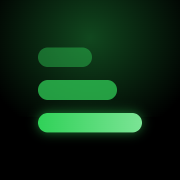
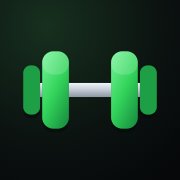
Une icône qui tient à 60 px
Les trois barres horizontales se lisaient comme un menu hamburger à
la taille où l'icône est réellement vue — 60 px sur l'écran
d'accueil, 38 px dans les réglages. À la place, un haltère chargé, à
plat et symétrique : deux plaques par côté, pas quatre, et une ombre
portée qui les décolle de la barre. Vérifié aux trois tailles avant
de trancher.

`icons/icon.svg` devient la source ; les PNG en sont des rendus. Le
512 maskable existe maintenant en double avec le motif à 76 %, parce
qu'Android rogne dans un cercle inscrit et mangeait les colliers
extérieurs.

Changed region(s): [[0.1111, 0.1111, 0.8889, 0.75], [0.0, 0.5, 0.0556, 0.6111], [0.0, 0.0, 0.0278, 0.0833]]

diff --git a/index.html b/index.html
@@ -9,7 +9,7 @@
 <meta name="apple-mobile-web-app-capable" content="yes">
 <meta name="apple-mobile-web-app-title" content="Reps">
 <meta name="apple-mobile-web-app-status-bar-style" content="black-translucent">
-<link rel="stylesheet" href="style.css?v=16">
+<link rel="stylesheet" href="style.css?v=17">
 <link rel="manifest" href="manifest.json">
 <link rel="apple-touch-icon" href="icons/icon-180.png">
 <link rel="icon" href="icons/icon-192.png" type="image/png">
@@ -284,13 +284,13 @@
   <div class="toast" id="toast" role="status" aria-live="polite" hidden></div>
 </div>
 
-<script src="js/theme.js?v=16"></script>
-<script src="js/motion.js?v=16"></script>
-<script src="js/data.js?v=16"></script>
-<script src="js/chart.js?v=16"></script>
-<script src="js/session.js?v=16"></script>
-<script src="js/views.js?v=16"></script>
-<script src="js/app.js?v=16"></script>
+<script src="js/theme.js?v=17"></script>
+<script src="js/motion.js?v=17"></script>
+<script src="js/data.js?v=17"></script>
+<script src="js/chart.js?v=17"></script>
+<script src="js/session.js?v=17"></script>
+<script src="js/views.js?v=17"></script>
+<script src="js/app.js?v=17"></script>
 <script>
   /* En local on ne l'enregistre pas : il resservirait l'ancienne
      version depuis son cache à chaque rechargement pendant le dev. */

diff --git a/sw.js b/sw.js
@@ -7,25 +7,26 @@
 
    Bumper la VERSION à CHAQUE déploiement, sinon le téléphone continue
    de servir la version précédente. */
-const VERSION = "v18";
+const VERSION = "v19";
 const SCOPE = new URL("./", self.location).pathname;   // ex. "/reps/"
 const CACHE_NAME = `reps-${VERSION}${SCOPE}`;
 
 const ASSETS = [
   "./",
   "./index.html",
-  "./style.css?v=16",
-  "./js/theme.js?v=16",
-  "./js/motion.js?v=16",
-  "./js/data.js?v=16",
-  "./js/chart.js?v=16",
-  "./js/session.js?v=16",
-  "./js/views.js?v=16",
-  "./js/app.js?v=16",
+  "./style.css?v=17",
+  "./js/theme.js?v=17",
+  "./js/motion.js?v=17",
+  "./js/data.js?v=17",
+  "./js/chart.js?v=17",
+  "./js/session.js?v=17",
+  "./js/views.js?v=17",
+  "./js/app.js?v=17",
   "./manifest.json",
   "./icons/icon-192.png",
   "./icons/icon-512.png",
   "./icons/icon-180.png",
+  "./icons/icon-512-maskable.png",
 ];
 
 self.addEventListener("install", (e) => {

diff --git a/README.md b/README.md
@@ -202,7 +202,28 @@ js/chart.js     graphiques SVG mono-série avec viseur et infobulle
 js/session.js   l'écran de séance
 js/views.js     les quatre onglets, navigation, feuilles, sélecteurs
 js/app.js       amorçage et câblage
+icons/icon.svg  la source de l'icône — les PNG en sont des rendus
 ```
+
+## L'icône
+
+Un haltère chargé, à plat et symétrique, sur un noir légèrement
+verdi. Le choix de la mise à plat est un choix de lisibilité : sur
+l'écran d'accueil l'icône fait 60 px, et à cette taille les trois
+barres horizontales d'avant se lisaient comme un menu hamburger.
+Tout est dessiné pour tenir jusqu'à 38 px — deux plaques par côté,
+pas quatre, et une ombre portée qui décolle les plaques de la barre.
+
+`icons/icon.svg` est la source ; les PNG (180, 192, 512) en sont des
+rendus. Le 512 maskable existe en double, motif à 76 %, parce
+qu'Android rogne dans un cercle inscrit et mangerait les colliers
+extérieurs.
+
+**La couleur est figée.** Elle ne suit pas l'accent des Réglages :
+iOS lit `apple-touch-icon` une seule fois, à l'ajout à l'écran
+d'accueil, et l'API qui change l'icône d'une app est réservée au
+natif. Changer de couleur veut dire regénérer les PNG, puis retirer
+et rajouter l'app à l'écran d'accueil.
 
 ## Pas encore fait
 
